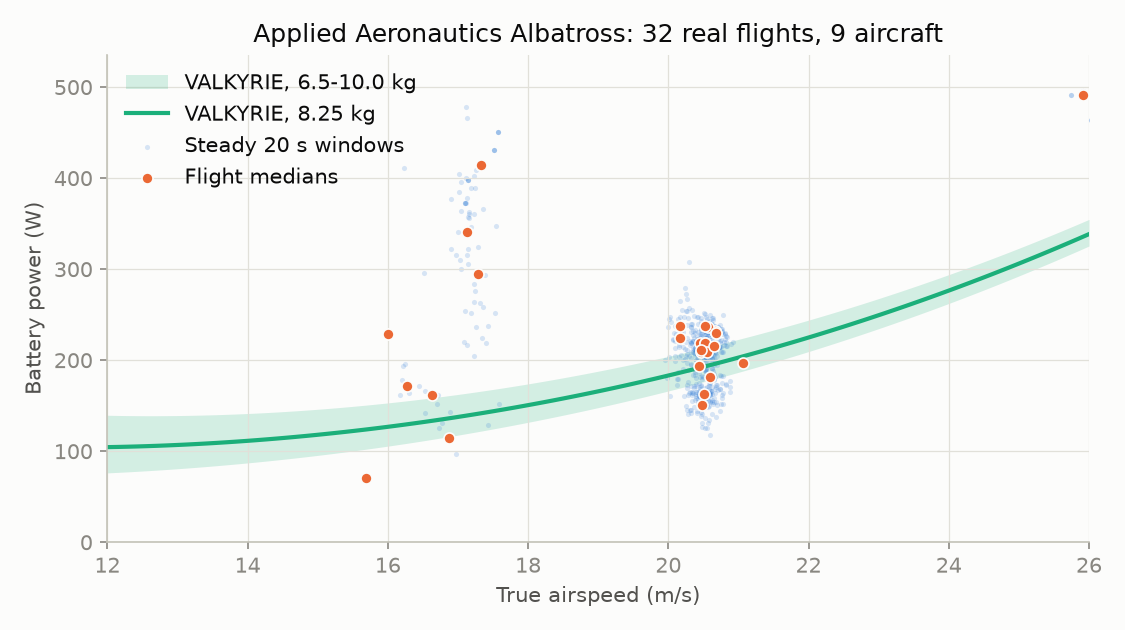
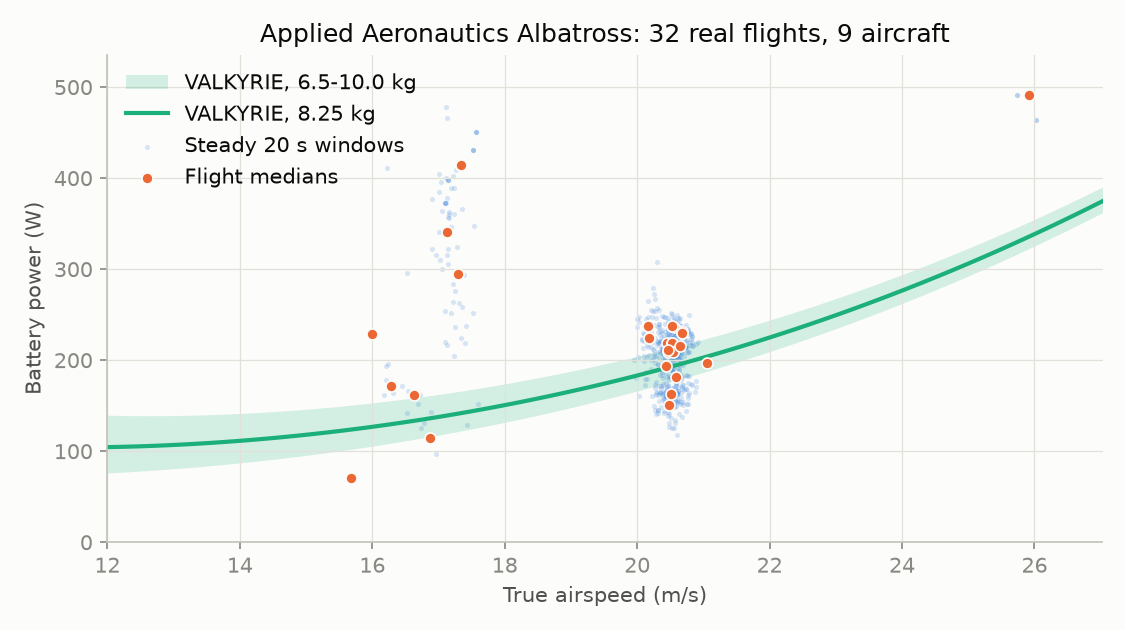
fix(validation): resilient log downloads, final Albatross results, docs
- flightlogs: stream downloads with a 120 s timeout and 3 retries into a
  .part file renamed on success (a dead connection hung 15 workers, and
  a half-written .ulg could be read as complete)
- Final flight-log dataset: 346 logs scanned, 32 usable flights from 9
  aircraft, 16 flight hours; rejection reasons in albatross_scan.json
- Report: plain-English rejection reasons, "ok" no longer listed as a
  rejection, flight chart x-axis fits the data, intro names real flight
  logs and datasheets
- README: validation table gains real-flight (median 1.18 measured /
  predicted), Penguin BE endurance (within 3-6%), CLmax, empty-weight
  and whole-sizing rows, plus the real-flights chart
- Docs: Penguin BE and Skylark I-LEX datasheets cited (R22, R23);
  getting-started explains how to rebuild the real-world datasets;
  theory cites the real-world evidence for the energy budget; docs
  index and Mission Lab footer updated; changelog entry

diff --git a/src/valkyrie/lab/index.html b/src/valkyrie/lab/index.html
@@ -138,8 +138,8 @@ input[type=range] { width: 100%; accent-color: var(--s1); height: 18px; margin: 
       <div id="f-aircraft"></div>
     </fieldset>
     <p class="engine">Physics: constraint analysis, battery energy budget and time-stepping simulation from the
-      <span class="mono">valkyrie</span> engine. Validated against USSA-1976, Skywalker X8 wind-tunnel data and
-      UIUC propeller data.</p>
+      <span class="mono">valkyrie</span> engine. Validated against USSA-1976, Skywalker X8 wind-tunnel data, UIUC
+      propeller data and 32 real Albatross flights.</p>
   </aside>
 
   <main>

diff --git a/validation/run_validation.py b/validation/run_validation.py
@@ -228,6 +228,19 @@ ALB_SPAN, ALB_AREA, ALB_MASS = 3.0, 0.684, (6.5, 8.25, 10.0)
 ETA_TOTAL = PROPELLER_EFFICIENCY_TYPICAL * 0.85 * 0.95
 
 
+REJECTION_LABELS = {
+    "under 5 min airborne": "bench or ground log (under 5 min airborne)",
+    "no airspeed data (flown without a working airspeed sensor)": "flown without a working airspeed sensor",
+    "missing battery_status.voltage_filtered_v": "no battery sensor logged",
+    "no steady straight-and-level windows": "no 20 s of steady straight-and-level flight",
+    "current sensor not working": "current sensor reads zero or constant",
+    "missing airspeed_validated.true_airspeed_m_s": "no airspeed topic",
+    "missing vehicle_air_data.rho": "no air-data topic",
+    "missing vehicle_land_detected.landed": "no land-detector topic",
+    "error": "corrupt or truncated log",
+}
+
+
 def albatross_power(v, rho, mass_kg, cd0=DEFAULT_CD0, e=DEFAULT_E):
     """VALKYRIE's level-flight battery power for the Albatross: (D·V)/η with the parabolic polar."""
     w = mass_kg * 9.80665
@@ -342,8 +355,9 @@ def write_report(atm, x8, buildup, props, sim, logs, sheets) -> None:
         "Do not edit by hand; rerun the script._",
         "",
         "VALKYRIE's tests check that the code is internally consistent. This page checks it against "
-        "**outside evidence**: published standards, wind-tunnel data, an independent design tool and an "
-        "independent simulation. Each study says what it validates and what it does not.",
+        "**outside evidence**: published standards, wind-tunnel data, real flight logs, manufacturer datasheets, "
+        "an independent design tool and an independent simulation. Each study says what it validates and what it "
+        "does not.",
         "",
         "## Summary",
         "",
@@ -471,8 +485,11 @@ def write_report(atm, x8, buildup, props, sim, logs, sheets) -> None:
         "",
         "Why measured power can exceed the prediction even with right aerodynamics: the battery also feeds the "
         "autopilot, radios and payload (cameras, gimbals), payload pods add drag, the true mass of each flight "
-        "is unknown, and hobby current sensors are often uncalibrated. Rows rejected and why: "
-        + ", ".join(f"{k} {v}" for k, v in sorted(logs["scan"]["status"].items(), key=lambda kv: -kv[1])) + ".",
+        "is unknown, and hobby current sensors are often uncalibrated.",
+        "",
+        "Logs rejected, and why: "
+        + "; ".join(f"{REJECTION_LABELS.get(k, k)} {v}" for k, v in
+                    sorted(logs["scan"]["status"].items(), key=lambda kv: -kv[1]) if k != "ok") + ".",
         "",
         "## 7. Manufacturer datasheets",
         "",

diff --git a/validation/flightlogs.py b/validation/flightlogs.py
@@ -122,6 +122,22 @@ def extract(path: pathlib.Path) -> dict:
     }
 
 
+def _download(url: str, dest: pathlib.Path, attempts: int = 3) -> None:
+    """Stream to dest.part with a socket timeout; rename only when complete, so no half file survives."""
+    part = dest.with_suffix(".part")
+    for attempt in range(attempts):
+        try:
+            with urllib.request.urlopen(url, timeout=120) as r, open(part, "wb") as fh:  # noqa: S310
+                while chunk := r.read(1 << 20):
+                    fh.write(chunk)
+            part.replace(dest)
+            return
+        except OSError:
+            part.unlink(missing_ok=True)
+            if attempt == attempts - 1:
+                raise
+
+
 def _fetch_one(entry: dict) -> tuple[str, str]:
     log_id = entry["log_id"]
     out = CACHE / "extracted" / f"{log_id}.json"
@@ -134,7 +150,7 @@ def _fetch_one(entry: dict) -> tuple[str, str]:
     ulg.parent.mkdir(parents=True, exist_ok=True)
     try:
         if not ulg.exists():
-            urllib.request.urlretrieve(url, ulg)  # noqa: S310
+            _download(url, ulg)
         result = extract(ulg)
     except Exception as e:  # corrupt or truncated logs are common in the wild
         result = {"status": f"error: {type(e).__name__}"}

diff --git a/docs/validation.md b/docs/validation.md
@@ -2,7 +2,7 @@
 
 _Generated by `validation/run_validation.py` on 2026-11-08. Do not edit by hand; rerun the script._
 
-VALKYRIE's tests check that the code is internally consistent. This page checks it against **outside evidence**: published standards, wind-tunnel data, an independent design tool and an independent simulation. Each study says what it validates and what it does not.
+VALKYRIE's tests check that the code is internally consistent. This page checks it against **outside evidence**: published standards, wind-tunnel data, real flight logs, manufacturer datasheets, an independent design tool and an independent simulation. Each study says what it validates and what it does not.
 
 ## Summary
 
@@ -97,7 +97,7 @@ With the wind's speed fixed and its direction swept, the most expensive directio
 
 ## 6. Cruise power vs real flight logs (Applied Aeronautics Albatross)
 
-Public PX4 flight logs from [PX4 Flight Review](https://review.px4.io) for airframe 2106, the Applied Aeronautics Albatross: 147 logs scanned, 32 usable flights from 9 different aircraft, 16 flight hours, 626 steady 20-second windows. A window counts only if the aircraft is airborne, straight (|roll| < 10°), level (|climb rate| < 0.25 m/s) and at steady airspeed, so the measured battery power (voltage × current) is the power for level flight at that true airspeed; a steady wind does not change it.
+Public PX4 flight logs from [PX4 Flight Review](https://review.px4.io) for airframe 2106, the Applied Aeronautics Albatross: 346 logs scanned, 32 usable flights from 9 different aircraft, 16 flight hours, 626 steady 20-second windows. A window counts only if the aircraft is airborne, straight (|roll| < 10°), level (|climb rate| < 0.25 m/s) and at steady airspeed, so the measured battery power (voltage × current) is the power for level flight at that true airspeed; a steady wind does not change it.
 
 The prediction uses only published numbers: 3.0 m span and 6.5-10 kg (dry weight plus battery, up to the 10 kg MTOW) from the manufacturer's datasheet, the 0.684 m² wing from the designer's 2013 specification, and VALKYRIE's default CD0, e and efficiencies. No parameter is fitted to the logs.
 
@@ -112,7 +112,9 @@ The prediction uses only published numbers: 3.0 m span and 6.5-10 kg (dry weight
 | CD0 that would match each flight at 8.25 kg (median) | 0.031 (default 0.025) |
 | Whole-flight average power / steady cruise power (median) | 1.01 |
 
-Why measured power can exceed the prediction even with right aerodynamics: the battery also feeds the autopilot, radios and payload (cameras, gimbals), payload pods add drag, the true mass of each flight is unknown, and hobby current sensors are often uncalibrated. Rows rejected and why: no steady straight-and-level windows 47, current sensor not working 38, ok 32, missing battery_status.voltage_filtered_v 25, missing vehicle_air_data.rho 2, error 2, missing vehicle_land_detected.landed 1.
+Why measured power can exceed the prediction even with right aerodynamics: the battery also feeds the autopilot, radios and payload (cameras, gimbals), payload pods add drag, the true mass of each flight is unknown, and hobby current sensors are often uncalibrated.
+
+Logs rejected, and why: bench or ground log (under 5 min airborne) 70; flown without a working airspeed sensor 66; no battery sensor logged 61; no 20 s of steady straight-and-level flight 60; current sensor reads zero or constant 44; no air-data topic 5; no airspeed topic 5; corrupt or truncated log 2; no land-detector topic 1.
 
 ## 7. Manufacturer datasheets
 

diff --git a/README.md b/README.md
@@ -190,8 +190,18 @@ Tests prove the code is self-consistent; validation checks it against **outside 
 | Propeller efficiency 0.70 | UIUC wind tunnel, APC 11–16 in props | measured peaks 0.68–0.79 |
 | Battery energy budget | Independent time-stepping simulator | within 0.11% on 4 missions |
 | "Along-track wind is worst case" | Simulator, 0–180° wind sweep | confirmed |
+| **Cruise power, real aircraft** | **346 public PX4 flight logs → 32 usable flights, 9 Albatross UAVs** | **measured / predicted median 1.18** |
+| **Endurance from battery energy** | **Penguin BE datasheet (640 Wh, 2.8 kg payload)** | **within 3–6% of the published 110 min** |
+| CLmax default 1.4 | Penguin BE datasheet | published 1.3 clean, 1.7 flapped |
+| Empty-weight fraction 0.50 | Albatross, Penguin BE datasheets | 0.44, 0.49 (default not optimistic) |
+| Whole sizing from payload + endurance | Penguin BE, Skylark I-LEX datasheets | −40%, +34%: a first estimate |
 
-Validation changed the model: the propeller efficiency default dropped from 0.80 to 0.70 after the UIUC data, and climb energy was added after the simulator exposed it. **Not yet validated:** end-to-end endurance against a real flight log (we need one, see [CONTRIBUTING.md](CONTRIBUTING.md)).
+<div align="center">
+<img src="docs/assets/validation/albatross_flights.png" width="80%" alt="Measured battery power vs airspeed from 32 real Albatross flights against VALKYRIE's predicted band">
+<br><em>Real flights vs VALKYRIE: battery power in steady level flight from public PX4 logs, against the prediction from published geometry and default assumptions (nothing fitted).</em>
+</div>
+
+Validation changed the model: propeller efficiency dropped from 0.80 to 0.70 after the UIUC data, climb energy was added after the simulator exposed it, and the parts database was rebuilt from manufacturer pages. On real Albatross flights the defaults under-predict cruise power by a median 18%, which is in line with avionics and payload drawing from the same battery. The datasets are in [`validation/data/`](validation/data/), every row traceable to a public log, a datasheet or a Wikipedia revision. **Still missing:** a flight log of a *weighed* aircraft ([CONTRIBUTING.md](CONTRIBUTING.md)).
 
 ---
 

diff --git a/docs/getting-started.md b/docs/getting-started.md
@@ -249,4 +249,14 @@ ruff check src tests && mypy src --strict
 python validation/run_validation.py      # needs .[validation]; regenerates docs/validation.md + figures
 ```
 
-`tests/validation/` checks the model against the U.S. Standard Atmosphere 1976, the Skywalker X8's measured aerodynamics, UIUC propeller data and the independent simulator, with no extra dependencies, so it runs in CI. `validation/run_validation.py` adds AeroSandbox and live UIUC downloads and writes the report: [validation.md](validation.md).
+`tests/validation/` checks the model against the U.S. Standard Atmosphere 1976, the Skywalker X8's measured aerodynamics, UIUC propeller data and the independent simulator, and checks the committed real-world datasets for provenance, with no extra dependencies, so it runs in CI. `validation/run_validation.py` adds AeroSandbox, live UIUC downloads, the real-flight and datasheet studies, and writes the report: [validation.md](validation.md).
+
+The real-world datasets in `validation/data/` are committed, so the report regenerates without downloading anything. To rebuild them from the source:
+
+```bash
+python validation/flightlogs.py fetch --airframe 2106 --workers 12   # PX4 Flight Review logs, ~50 GB streamed, ~1 h
+python validation/flightlogs.py build                                # -> validation/data/albatross_*.csv
+python validation/uav_database.py                                    # Wikipedia infobox crawl (reference only)
+```
+
+What each dataset holds and how rows are filtered: [validation/README.md](../validation/README.md).

diff --git a/docs/references.md b/docs/references.md
@@ -57,3 +57,9 @@ Numbered as cited in [theory.md](theory.md) and the code docstrings.
 
 - **[R15]** U.S. Air Force. "RQ-11B Raven" fact sheet. [af.mil](https://www.af.mil/News/Article-Display/Article/104533/rq-11b-raven).
   Used only for the 1.37 m span in the AeroSandbox check (validation §3).
+- **[R22]** UAV Factory. "Penguin BE Electric Unmanned Platform" datasheet v1.1. [PDF](https://www.unmannedsystemstechnology.com/wp-content/uploads/2014/11/Penguin-BE-Datasheet.pdf).
+  MTOW 21.5 kg; empty weight 14.9 kg with battery cartridge and standard landing gear; span 3.3 m; wing area 0.79 m²; 640 Wh LiPo; 110 min with 2.8 kg payload (belly landing); cruise 22 m/s; CLmax 1.3 clean, 1.7 with 45° flaps. Used in validation §7.
+- **[R23]** Elbit Systems. "Skylark I-LEX" product page. [elbitsystems.com](https://elbitsystems.com/unmanned/aerial/tactical-uas/skylark-i-lex).
+  Take-off weight 7.5 kg, max payload 1.2 kg, endurance 3 h, electric. Used in validation §7.
+
+All manufacturer figures are also collected, with what each weight includes, in `validation/data/uav_datasheets.csv`.

diff --git a/docs/README.md b/docs/README.md
@@ -4,9 +4,9 @@
 |---|---|
 | [Getting started](getting-started.md) | install, size an aircraft, see every input and output, run the simulator, set up the MCP server |
 | [Theory](theory.md) | see every equation the code runs, every default and where it comes from |
-| [Validation](validation.md) | see how the model compares with standards, wind-tunnel data and independent tools (generated) |
+| [Validation](validation.md) | see how the model compares with standards, wind-tunnel data, real flight logs, manufacturer datasheets and independent tools (generated) |
 | [References](references.md) | find the books, papers and datasets behind the numbers |
 
-Also: the [worked example](../examples/designs/tactical_field_uav/), the [validation studies](../validation/), and the [changelog](../CHANGELOG.md).
+Also: the [worked example](../examples/designs/tactical_field_uav/), the [validation studies and real-world datasets](../validation/README.md), and the [changelog](../CHANGELOG.md).
 
 `index.html` and `assets/` serve the GitHub Pages landing page.

diff --git a/docs/theory.md b/docs/theory.md
@@ -153,7 +153,7 @@ $$
 \text{BMF} = \text{BMF}_{climb} + \text{BMF}_{range,out} + \text{BMF}_{loiter} + \text{BMF}_{range,back}
 $$
 
-*Validated:* matches the independent time-stepping simulator within 0.11% ([validation §5](validation.md#5-closed-form-budget-vs-simulation)). Traub flew a model aircraft in a wind tunnel and found battery-energy endurance estimates within 3% of measured [R5].
+*Validated:* matches the independent time-stepping simulator within 0.11% ([validation §5](validation.md#5-closed-form-budget-vs-simulation)). Predicts the Penguin BE's published 110 min endurance from its 640 Wh battery within 3–6% [R22], and real Albatross cruise power at a median 1.18× measured/predicted over 32 public PX4 flights ([validation §6–7](validation.md#6-cruise-power-vs-real-flight-logs-applied-aeronautics-albatross)). Traub flew a model aircraft in a wind tunnel and found battery-energy endurance estimates within 3% of measured [R5].
 
 ---
 

diff --git a/CHANGELOG.md b/CHANGELOG.md
@@ -46,6 +46,7 @@ and this project adheres to [Semantic Versioning](https://semver.org/spec/v2.0.0
   logs of the Applied Aeronautics Albatross fleet (`validation/flightlogs.py`), manufacturer datasheets
   (Penguin BE, Albatross, Skylark I-LEX, Skywalker X8), and a Wikipedia UAV infobox crawl
   (`validation/uav_database.py`, reference only); validation report sections 6 and 7
+- Flight-log download is resilient: 120 s socket timeout, 3 retries, `.part` file renamed on success
 
 ### Changed
 - Range missions now default to a 10 m/s headwind (`max_wind_speed_ms` default); set it to 0 for still-air numbers
